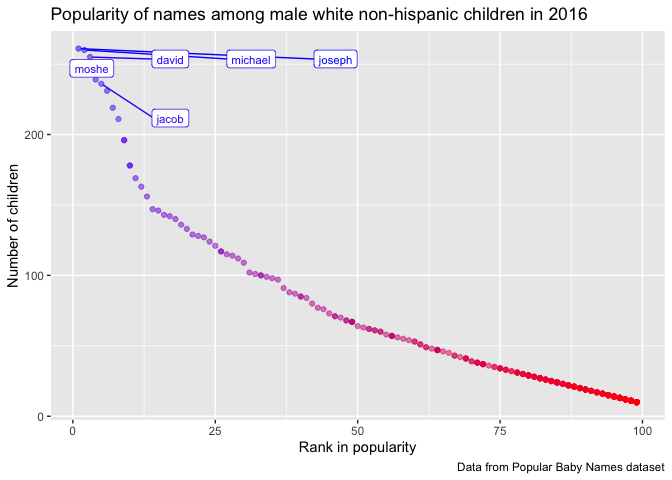
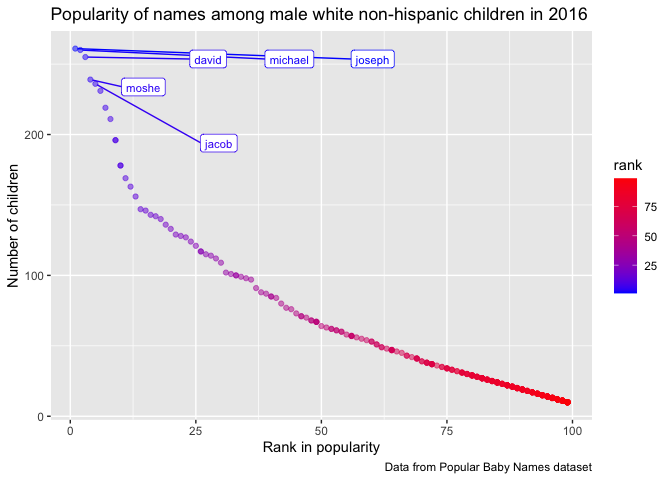
edits + scatterplot pdf

diff --git a/p8105_hw2_jys2137.md b/p8105_hw2_jys2137.md
@@ -7,25 +7,6 @@ The purpose of this file is to present the answers to Homework 2, an
 assignment reinforcing ideas in the **Data Wrangling I** topic for
 P8105.
 
-## Problem 0.1
-
-This “problem” focuses on structure of my submission, especially the use
-git and GitHub for reproducibility, R Projects to organize my work, R
-Markdown to write reproducible reports, relative paths to load data from
-local files, and reasonable naming structures for my files.
-
-To that end:
-
--   I created a public GitHub repo + local R Project; we suggest naming
-    this repo / directory p8105\_hw2\_jys2137
--   I created a single .Rmd file named p8105\_hw2\_jys2137.Rmd that
-    renders to github\_document
--   I created a subdirectory to store the local data files used in this
-    assignment, and used relative paths to access these data files
--   I submitted a link to my repo via Courseworks
--   I aimed to adhere to appropriate styling and clarity of code in
-    Problems 1+.
-
 ## Problem 1
 
 ### Cleaning the *Mr. Trash Wheel* sheet
@@ -220,12 +201,8 @@ representatives who were either democrats or republicans for each
 
 ## Problem 3
 
-\*\*\*Load and tidy the data. Note that, although these data may seem
-fairly well formatted initially, the names of a categorical predictor
-and the case structure of string variables changed over time; you’ll
-need to address this in your data cleaning. Also, some rows seem
-duplicated, and these will need to be removed (hint: google something
-like “dplyr remove duplicate rows” to get started).
+For this next section, we load and tidy the *Popular Baby Names*
+dataset.
 
 ### Cleaning the *Popular Baby Names* data
 
@@ -243,7 +220,7 @@ baby_names_df =
     ethnicity = recode(ethnicity, 
                        "asian and paci" = "asian and pacific islander", 
                        "black non hisp" = "black non hispanic",
-                       "white non hisp" = "white non hispanic")) %>% 
+                       "white non hisp" = "white non hispanic")) %>%
   distinct()
 ```
 
@@ -258,17 +235,18 @@ olivia_table =
   baby_names_df %>%
   filter(childs_first_name == "olivia") %>% 
   select(-gender, -childs_first_name, -count) %>% 
+  arrange(year_of_birth) %>% 
   pivot_wider(names_from = year_of_birth, values_from = rank)
 
 kable(olivia_table)
 ```
 
-| ethnicity                  | 2016 | 2015 | 2014 | 2013 | 2012 | 2011 |
+| ethnicity                  | 2011 | 2012 | 2013 | 2014 | 2015 | 2016 |
 |:---------------------------|-----:|-----:|-----:|-----:|-----:|-----:|
-| asian and pacific islander |    1 |    1 |    1 |    3 |    3 |    4 |
-| black non hispanic         |    8 |    4 |    8 |    6 |    8 |   10 |
-| hispanic                   |   13 |   16 |   16 |   22 |   22 |   18 |
-| white non hispanic         |    1 |    1 |    1 |    1 |    4 |    2 |
+| asian and pacific islander |    4 |    3 |    3 |    1 |    1 |    1 |
+| black non hispanic         |   10 |    8 |    6 |    8 |    4 |    8 |
+| hispanic                   |   18 |   22 |   22 |   16 |   16 |   13 |
+| white non hispanic         |    2 |    4 |    1 |    1 |    1 |    1 |
 
 ### Creating a table: most popular name among male children
 
@@ -281,17 +259,18 @@ male_names_table =
   baby_names_df %>%
   filter(rank == "1", gender == "male") %>% 
   select(-gender, -count, -rank) %>% 
+  arrange(year_of_birth) %>% 
   pivot_wider(names_from = year_of_birth, values_from = childs_first_name)
 
 kable(male_names_table)
 ```
 
-| ethnicity                  | 2016   | 2015   | 2014   | 2013   | 2012   | 2011    |
-|:---------------------------|:-------|:-------|:-------|:-------|:-------|:--------|
-| asian and pacific islander | ethan  | jayden | jayden | jayden | ryan   | ethan   |
-| black non hispanic         | noah   | noah   | ethan  | ethan  | jayden | jayden  |
-| hispanic                   | liam   | liam   | liam   | jayden | jayden | jayden  |
-| white non hispanic         | joseph | david  | joseph | david  | joseph | michael |
+| ethnicity                  | 2011    | 2012   | 2013   | 2014   | 2015   | 2016   |
+|:---------------------------|:--------|:-------|:-------|:-------|:-------|:-------|
+| asian and pacific islander | ethan   | ryan   | jayden | jayden | jayden | ethan  |
+| black non hispanic         | jayden  | jayden | ethan  | ethan  | noah   | noah   |
+| hispanic                   | jayden  | jayden | jayden | liam   | liam   | liam   |
+| white non hispanic         | michael | joseph | david  | joseph | david  | joseph |
 
 ### Creating a scatter plot: rank of male white non-hispanic children names in 2016
 
@@ -300,11 +279,11 @@ children born in 2016*. The number of children with a name (y axis) is
 against the rank in popularity of that name (x axis).
 
 ``` r
-male_nhw_2016 = 
+male_wnh_2016 = 
   baby_names_df %>% 
   filter(gender == "male", ethnicity == "white non hispanic", year_of_birth == 2016)
 
-ggplot(male_nhw_2016, aes(x = rank, y = count, color = rank)) + 
+ggplot(male_wnh_2016, aes(x = rank, y = count, color = rank)) + 
   geom_point(alpha = .5) +
   scale_color_gradient(low = "blue", high = "red") +
   labs(
@@ -317,30 +296,5 @@ ggplot(male_nhw_2016, aes(x = rank, y = count, color = rank)) +
 ![](p8105_hw2_jys2137_files/figure-gfm/final_scatterplot-1.png)<!-- -->
 
 ``` r
-ggsave("male_nhw_2016.pdf", height = 4, width = 6)
+ggsave("male_wnh_2016.pdf", height = 4, width = 6)
 ```
-
-``` r
-male_nhw_2016_draft = 
-  baby_names_df %>% 
-  filter(gender == "male", ethnicity == "white non hispanic", year_of_birth == 2016)
-
-library(ggrepel)
-
-newtable = ggplot(male_nhw_2016_draft, aes(x = rank, y = count, color = rank)) + 
-  geom_point(alpha = .5) +
-  labs(
-    title = "Popularity of names among male white non-hispanic children in 2016",
-    x = "Rank in popularity",
-    y = "Number of children",
-    caption = "Data from Popular Baby Names dataset") +
-  theme(legend.position = "none") +
-  geom_label_repel(aes(label = ifelse(rank <= 5, as.character(childs_first_name),'')),
-                   size = 3,
-                   box.padding = 1,
-                   point.padding = .1) +
-  scale_color_gradient(low = "blue", high = "red")
-newtable
-```
-
-![](p8105_hw2_jys2137_files/figure-gfm/unnamed-chunk-1-1.png)<!-- -->
